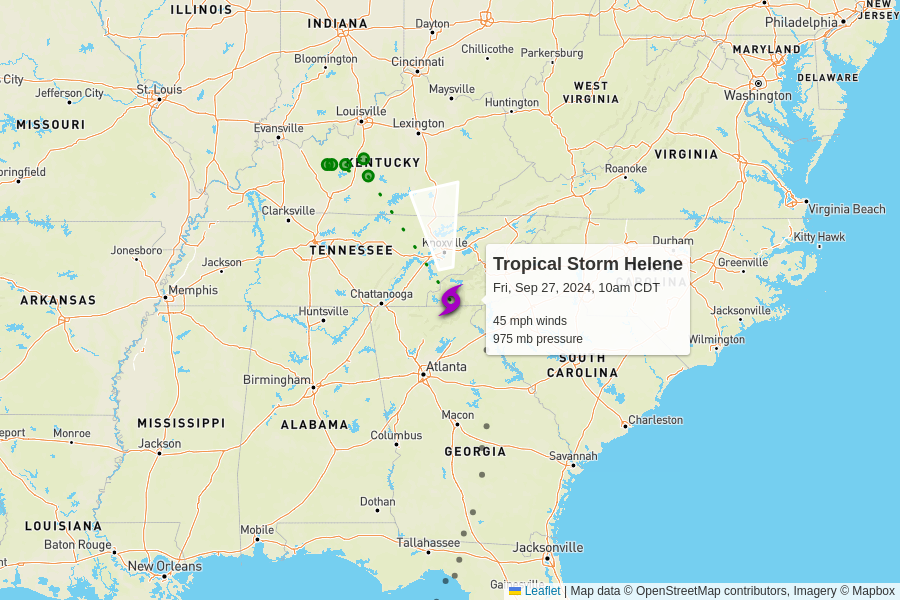
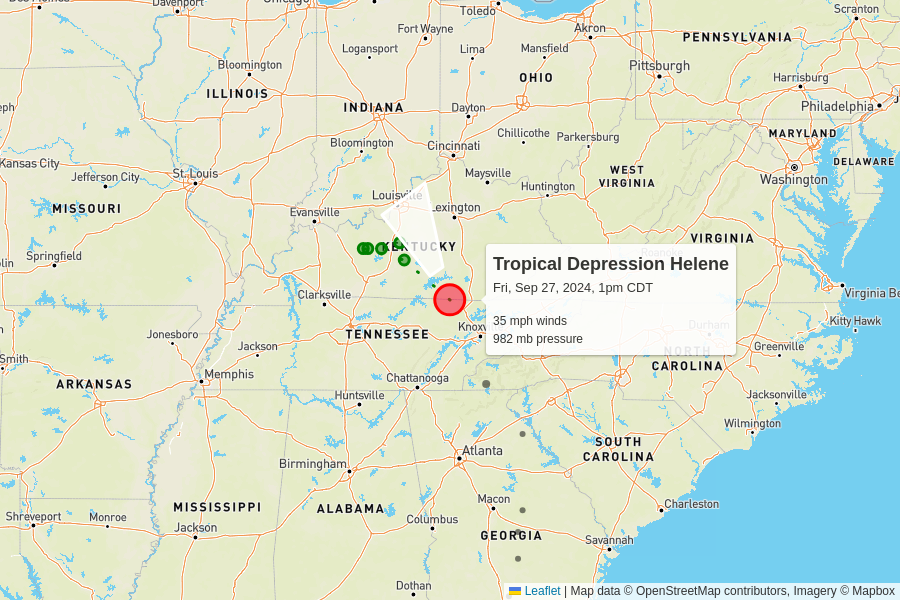
automatic update

diff --git a/docs/index.html b/docs/index.html
@@ -103,8 +103,8 @@
       <tr>
         <td colspan="6" class="storm category-0" >
           <h2>
-            Tropical Storm Helene
-            <p class="updated">last updated <span data-time>2024-09-27T15:00:00.000Z</span></p>
+            Tropical Depression Helene
+            <p class="updated">last updated <span data-time>2024-09-27T18:00:00.000Z</span></p>
           </h2>
         </td>
       </tr>
@@ -119,12 +119,12 @@
       </tr>
       <tr>
         <td class="spacer"></td>
-        <td>45 mph<br>-15 mph since last update</td>
-        <td>975 mb<br>+3 mb since last update</td>
+        <td>35 mph<br>-10 mph since last update</td>
+        <td>982 mb<br>+7 mb since last update</td>
         <td>
-          32 mph to the north
+          28 mph to the north-northwest
           <br/>
-          <span style="display: inline-block; font-size: 1.5em; transform: rotate(350deg);">↑</span>
+          <span style="display: inline-block; font-size: 1.5em; transform: rotate(330deg);">↑</span>
         </td>
         <td><a href="https://raw.githubusercontent.com/mgwalker/atlantic-hurricanes/main/data/csv/AL092024.csv">AL092024.csv</a></td>
         <td><a href="https://www.nhc.noaa.gov/archive/2024/HELENE.shtml?">NHC advisories</a></td>
